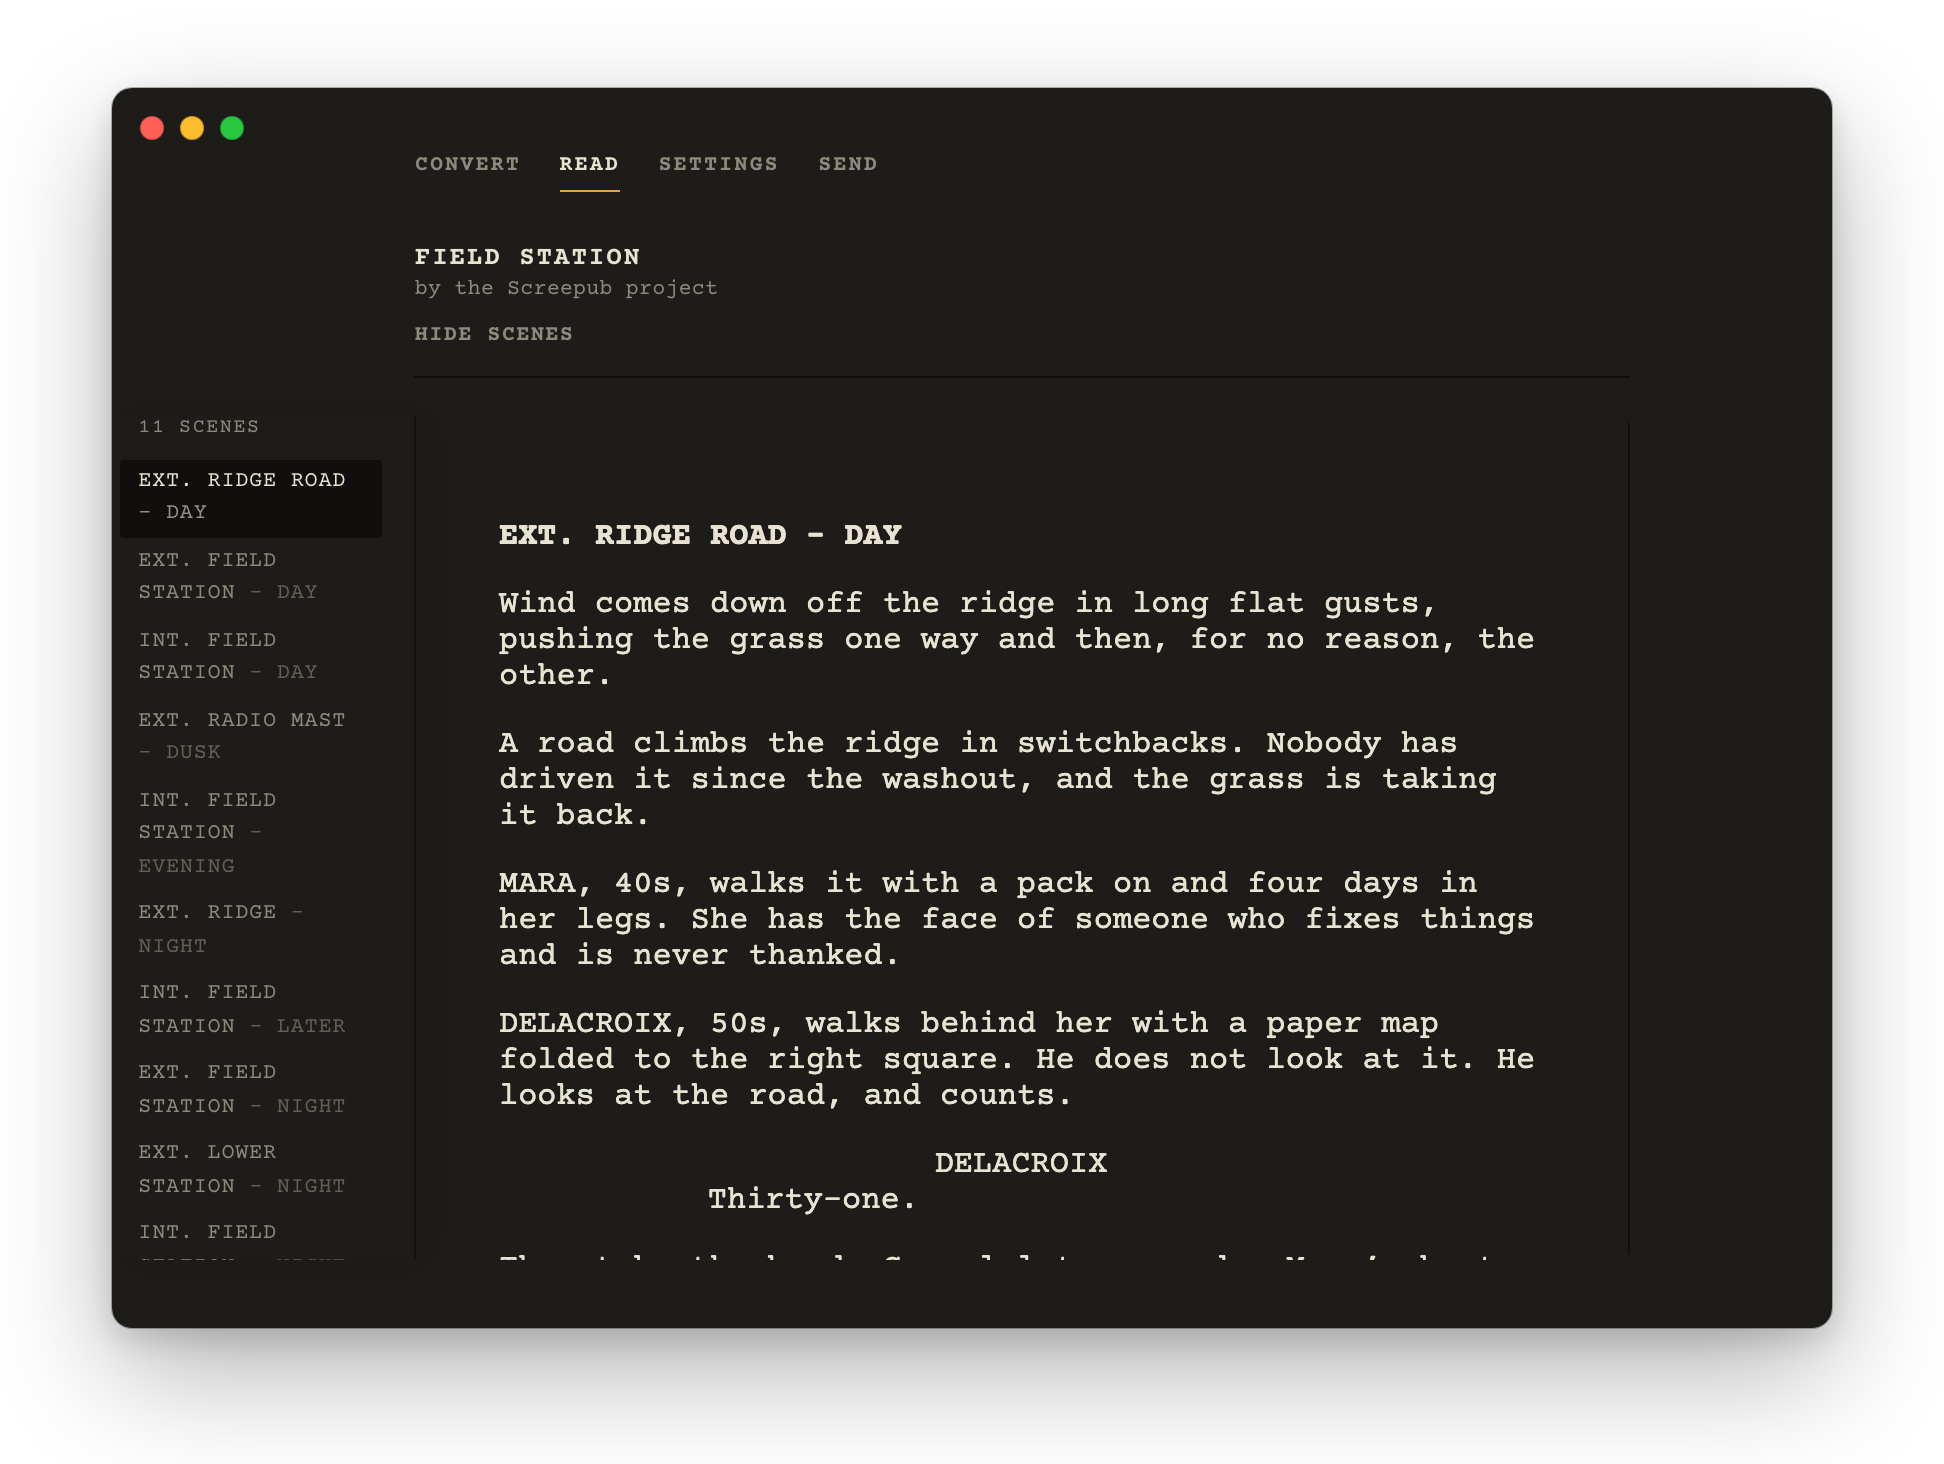
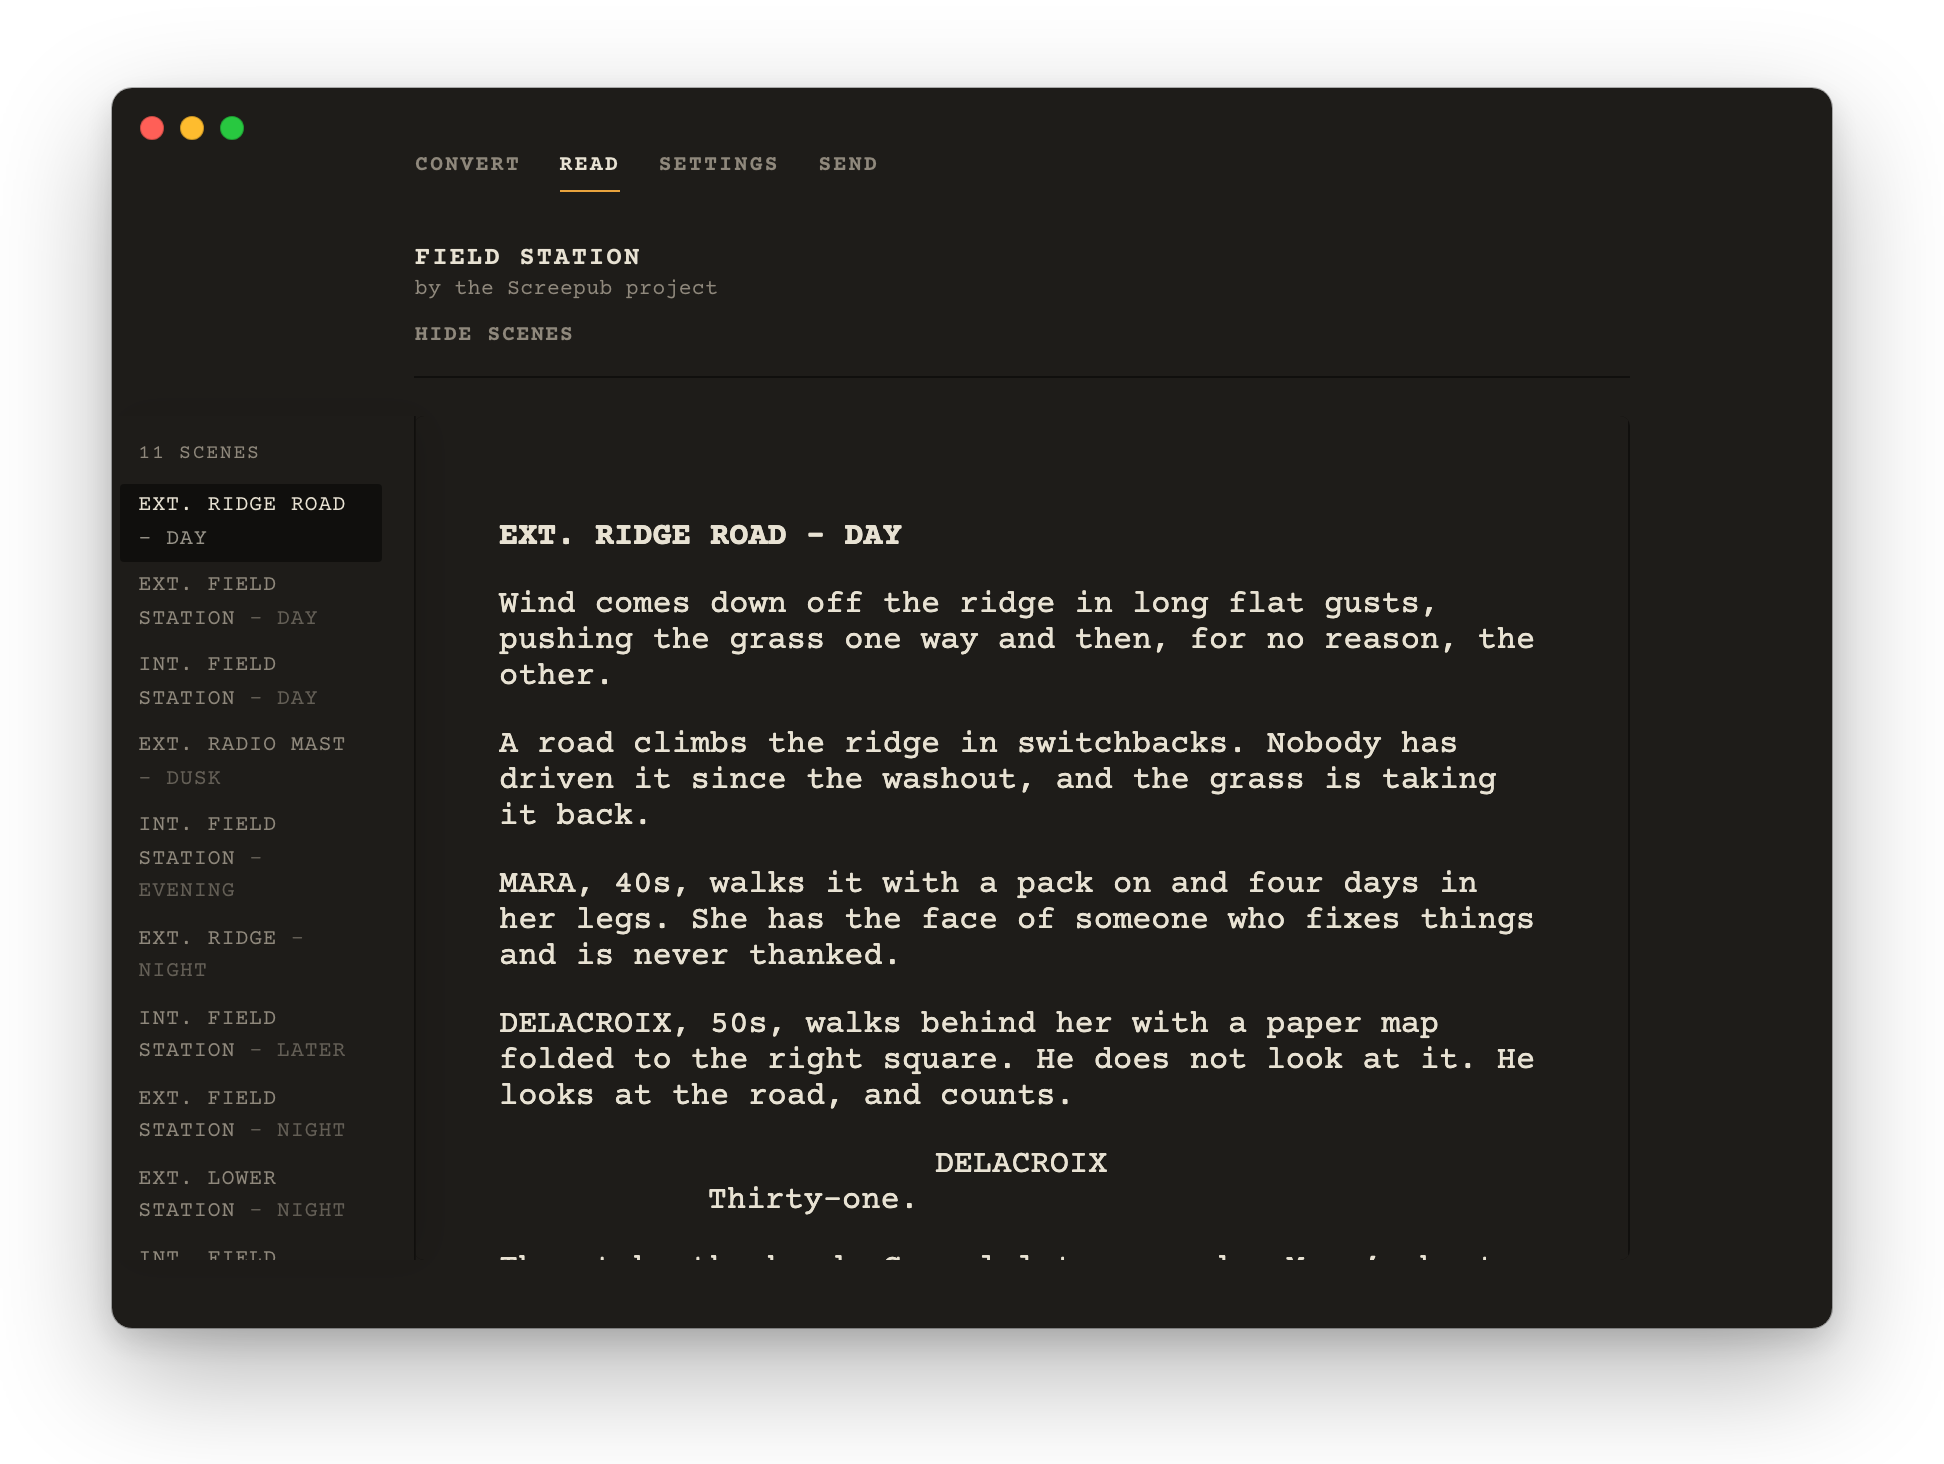
Scene index: room above the count, as below the last scene
The drawer's first line ("93 SCENES") sat hard against its top edge, even
scrolled to the top: the rail had bottom padding and none on top. It now
has --space-3 at both ends. The bottom was checked too: a WKWebView (the
Mac window's engine) keeps a flex scroller's bottom padding below the last
entry when scrolled to the end, as Chrome does.

read-light.png and read-dark.png are retaken (bun tools/capture-screens.ts):
they show the drawer, and the count now stands clear of its top edge. The
other seven pictures came back unchanged.

Changed region(s): [[0.0617, 0.2766, 0.1852, 0.8607]]

diff --git a/tests/desktop-ui.test.ts b/tests/desktop-ui.test.ts
@@ -7515,6 +7515,17 @@ describe('the scene index is a drawer in the binding margin', () => {
     expect(block).toMatch(/position:\s*(relative|absolute|fixed|sticky)/);
   });
 
+  test('the list stands clear of the drawer’s top and bottom edges', () => {
+    // QA, 0.7.3: the count ("93 SCENES") sat right against the drawer's top
+    // edge, even scrolled to the top. The top gets the same room the bottom
+    // already had, in the window's own spacing, so the list reads as set
+    // inside the panel at both ends rather than cut off at one.
+    const block = ruleBlock(read('surfaces.css'), '.scene-rail');
+    const [top, , bottom] = block.match(/\bpadding:\s*([^;]+);/)?.[1]?.trim().split(/\s+/) ?? [];
+    expect(top).toBe('var(--space-3)');
+    expect(bottom).toBe('var(--space-3)');
+  });
+
   test('hiding it does not rely on moving it', () => {
     // A translate alone cannot be trusted to clear the window: the margin
     // GROWS with the window, so on a wide display a panel shifted by its own

diff --git a/desktop/ui/surfaces.css b/desktop/ui/surfaces.css
@@ -412,7 +412,11 @@
   background: var(--paper);
   /* The hairline reads as the edge of the binding the panel came out of. */
   border-right: 1px solid var(--hole);
-  padding: 0 var(--space-4) var(--space-3) var(--space-3);
+  /* The same room at the top as at the bottom: with none, the count sat
+   * hard against the panel's top edge (QA, 0.7.3). The bottom's is kept
+   * when scrolled to the end, in WebKit as in Chrome (measured 2026-09-28
+   * in a WKWebView: 13px of padding left 13px below the last entry). */
+  padding: var(--space-3) var(--space-4) var(--space-3) var(--space-3);
   /* Shut. Opacity is what actually hides it; the translate is only the
    * motion. A translate alone cannot be trusted to clear the window, because
    * the margin GROWS with the window: on a wide display a panel shifted by
